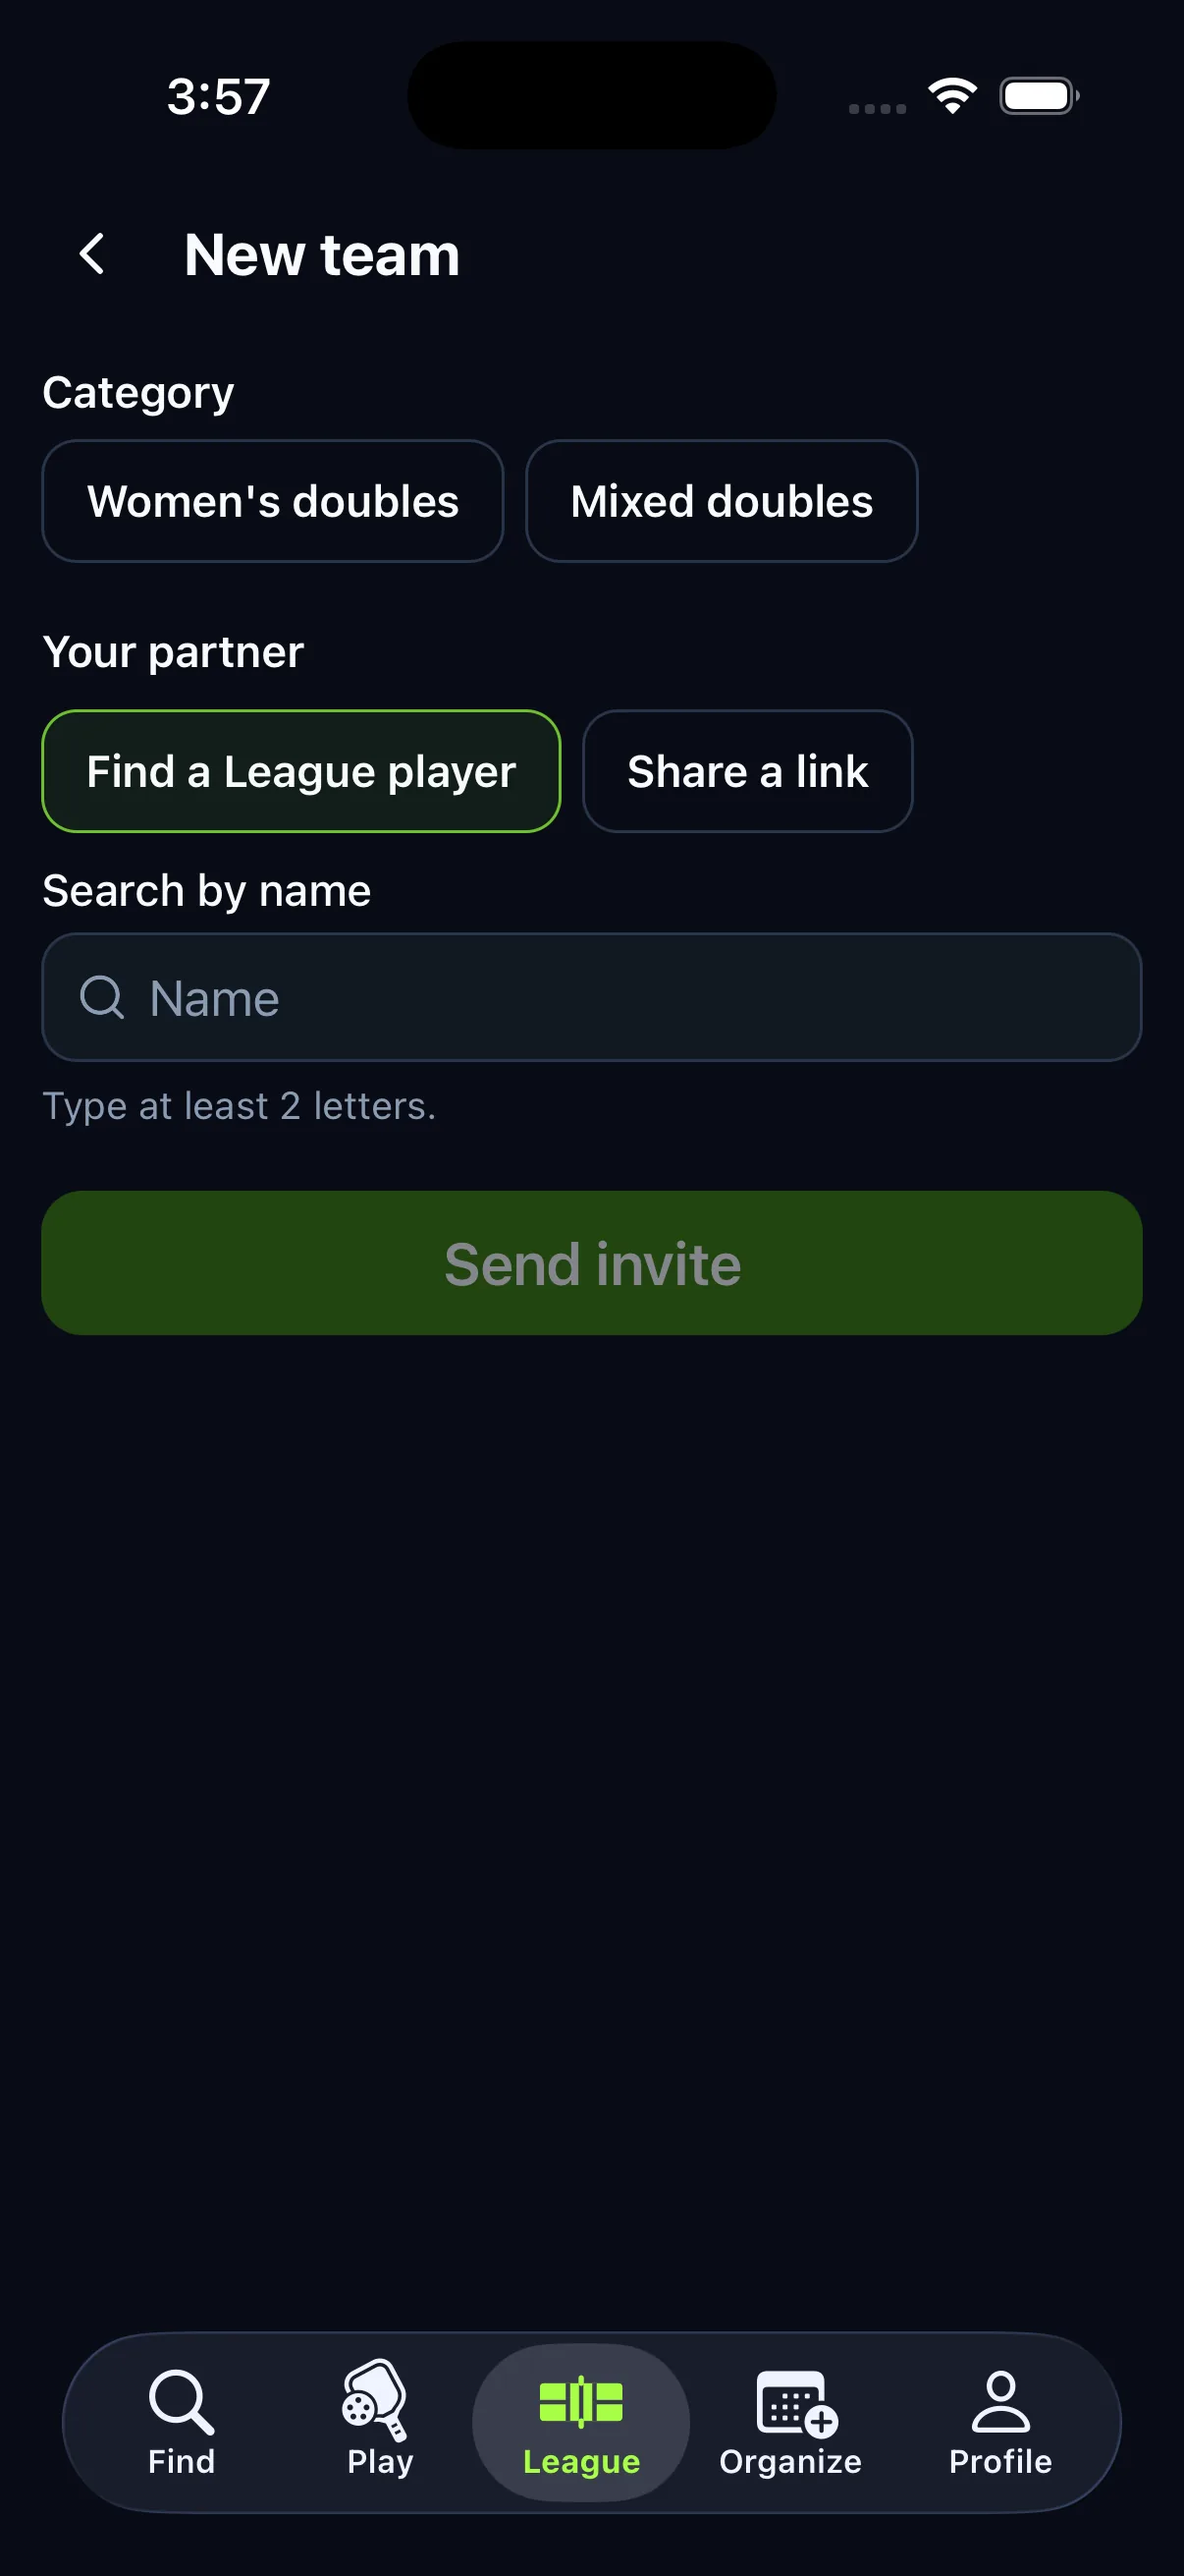
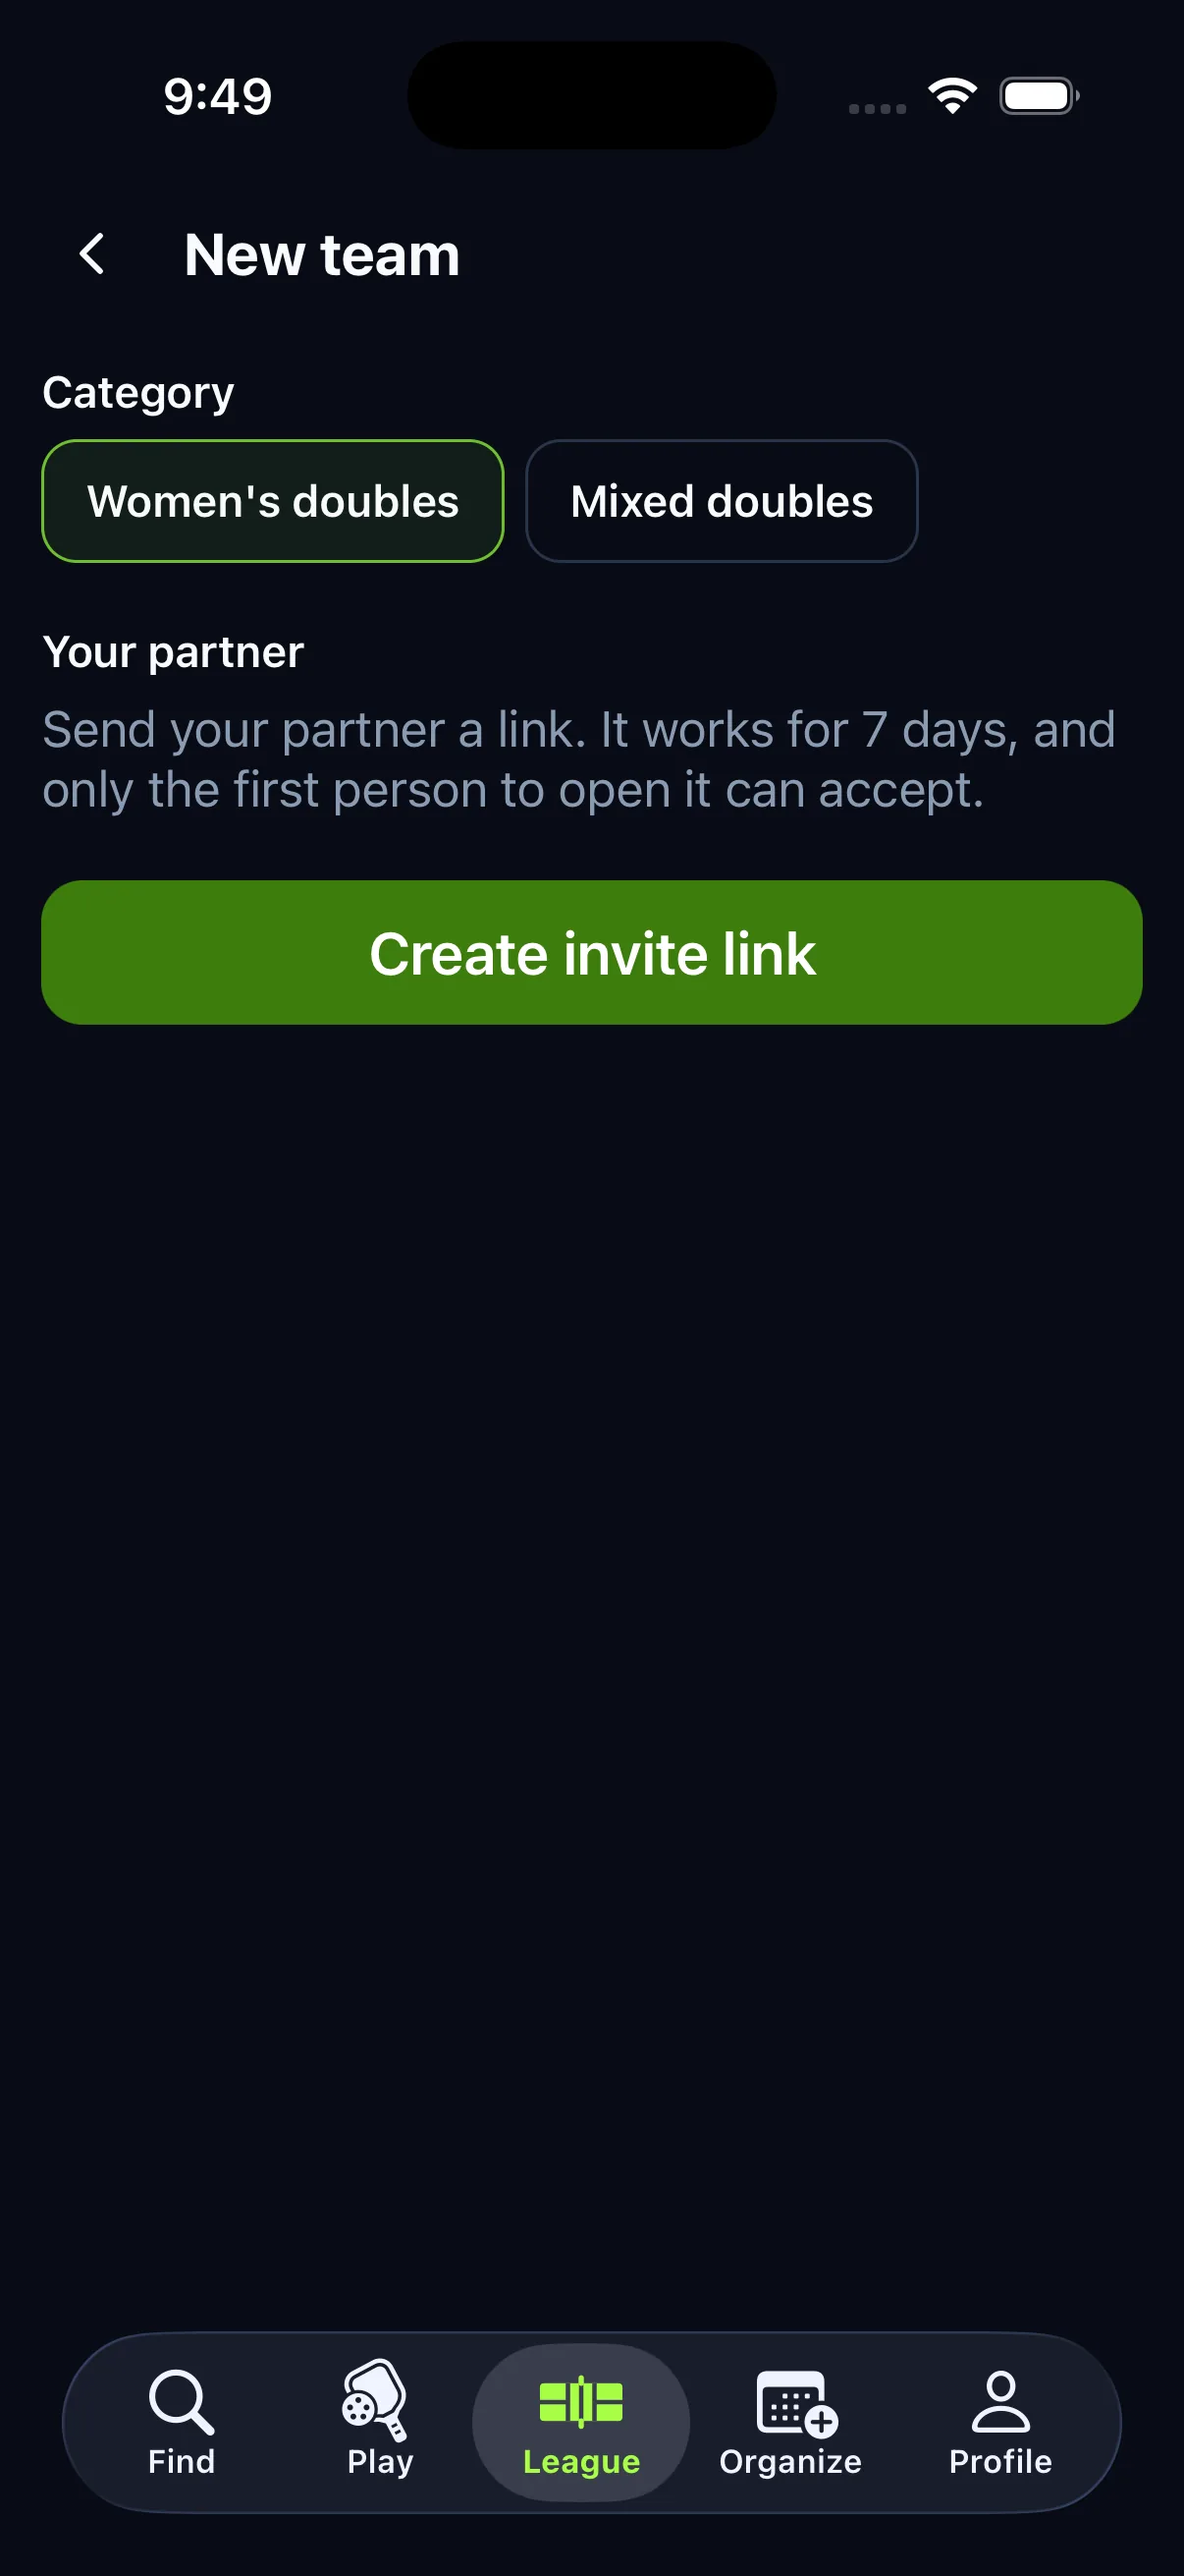
Recapture fixed-team screens for link-only partner invites
League partner invites are now link-only: there is no in-app player
search, because a fixed partner is someone a player already knows.
Screen 60 shows New team with only the category and Create invite
link. Screen 61 shows the share sheet that opens with the link, and
replaces the old partner search. Screen 62 shows the saved invite
under Matchmaking with Share link and Cancel invite, and replaces the
old selected-partner screen. Captions, the capture list, the
evidence page and the README were updated. App base is ee207be70 on
local main.

diff --git a/index.html b/index.html
@@ -233,9 +233,9 @@ const CHAPTERS = [
     ['40c-recap-summary-end', 'What next', 'View standings, or start matchmaking for the new week.'],
   ]},
   { id: 'teams', title: 'Fixed teams', who: 'Doubles with the same partner every game.', person: 'Casey', shots: [
-    ['41-add-team', 'New team', 'Choose Women’s or Mixed doubles, then find a League player or share an invite link.'],
-    ['41b-add-team-search', 'Find a partner', 'Search lists only players who fit the chosen category: “Ma” finds Maya for Women’s doubles, and Marcus only under Mixed.'],
-    ['41c-add-team-selected', 'Send the invite', 'Maya is selected. She accepts on her own phone.'],
+    ['41-add-team', 'New team', 'Choose Women’s or Mixed doubles, then Create invite link. There is no player search: a partner is someone Casey already knows.'],
+    ['41b-add-team-share', 'Send the link', 'The share sheet opens with the link, ready to text to a friend. It works for 7 days, and only the first person to open it can accept.'],
+    ['41c-add-team-link-saved', 'Link saved', 'The invite waits under Matchmaking, with Share link to send it again and Cancel invite. Maya opens it on her own phone and accepts.'],
     ['43-team-settings', 'Team page', 'Casey and Maya’s Women’s doubles team: times, match settings, Out for now, and End this team last.'],
   ]},
   { id: 'scan', title: 'Scan to play', who: 'Already at the courts with someone? Set up a League match on the spot.', person: 'Casey', shots: [

diff --git a/current-evidence.md b/current-evidence.md
@@ -38,7 +38,7 @@ A later pass, not yet committed to the app repository when these captures were t
 - League stats match history puts the result and opponent on the left and the score and PD on the right.
 - My QR is Circuit green and black, and still decodes with the iOS camera detector.
 - The hour grid no longer shows a check mark on selected hours.
-- Partner search lists only players who fit the chosen category, and the server refuses an invite that does not fit.
+- Partner search lists only players who fit the chosen category, and the server refuses an invite that does not fit. (Partner search was removed in the fifth pass below.)
 - The conduct notice on League home is a flat row instead of a large brown card.
 - Setup no longer repeats the category rule in a paragraph, but keeps the confirmation checkbox.
 - Match chat has hold-to-react with eight reactions, shown as two new screens after Mute or block.
@@ -64,6 +64,16 @@ App commits `c2f902156`, `17e272bc5`, `5aea79394` and `01e6c876f` on local main 
 - In the app, a time names its zone only when the phone's clock differs from the venue's, or in the repeated hour on the night daylight saving ends. The simulator is on Central time, so every retaken time reads without "Central (CT)" (screens 10, 21, 22, 24, 29, 35, 36, 40, 42, 43, 48 and 76 to 80). The inbox (screen 81) keeps its zone on purpose, because notifications are read outside the app.
 - Scan to play lists the nearest venues first, each with its distance, as flat rows (screen 64). Choosing one folds the list to it (screen 65, which replaces the old venue sheet).
 - The story state differs slightly from earlier passes. The score to review is from Elena, not Jade, and ends in a loss (screens 40 and 42). The challenge deadline is 8:26 PM (screen 77).
+
+## Fifth pass (2026-10-26, night)
+
+App commits `7d3a83d79` and `ee207be70` on local main (not pushed) made League partner invites link-only. The owner decided that a fixed partner is someone a player already knows, so there is no in-app player search. The world was rebuilt from an empty database, and three screens were taken again:
+
+- New team asks only for the category and offers Create invite link (screen 60).
+- Creating it opens the share sheet with the link (screen 61, which replaces the old partner search).
+- The invite then waits under Matchmaking, with Share link and Cancel invite, and reads "Expires in 7 days" (screen 62, which replaces the old selected-partner screen). Before `ee207be70`, a link made while the League tab was already open could briefly read "Expires in 8 days".
+
+The tour does not show the partner opening the link, because the fictional partner has no simulator account. That screen did not change in this pass.
 
 ## Page checks
 

diff --git a/README.md b/README.md
@@ -4,7 +4,7 @@
 
 One page follows two fictional players through Circuit League on iPhone. Blake joins: intro, the four setup stages, notifications and automatic check-in. Casey has played for seven weeks: offers, chat, score reporting and review, leaderboards, player records, the weekly recap, fixed teams, Scan to play, settings, safety and notifications.
 
-All 81 screens were captured on October 26, 2026 on an iPhone 17 Pro simulator (iOS 26.4) in Dark appearance at the Default app text size. Most come from one walkthrough of the app on local main, after commit `e4e2ed091` and the setup check-in step fix that followed it. Ten were recaptured that evening after the second polish pass and the new match chat reactions (local main `8babf9c93`). Seven more were captured or recaptured later that night after the reaction badge and standings info changes (local main `b9c600d12`). Eighteen were recaptured after that, once in-app times showed a zone only when the phone's clock differs and Scan to play listed the nearest venues first (local main `01e6c876f`). Tap any screen to step through the tour full size; arrow keys and swipes move between screens, and `#s12`-style links open a specific screen.
+All 81 screens were captured on October 26, 2026 on an iPhone 17 Pro simulator (iOS 26.4) in Dark appearance at the Default app text size. Most come from one walkthrough of the app on local main, after commit `e4e2ed091` and the setup check-in step fix that followed it. Ten were recaptured that evening after the second polish pass and the new match chat reactions (local main `8babf9c93`). Seven more were captured or recaptured later that night after the reaction badge and standings info changes (local main `b9c600d12`). Eighteen were recaptured after that, once in-app times showed a zone only when the phone's clock differs and Scan to play listed the nearest venues first (local main `01e6c876f`). Three team screens were recaptured last, once partner invites became link-only (local main `ee207be70`). Tap any screen to step through the tour full size; arrow keys and swipes move between screens, and `#s12`-style links open a specific screen.
 
 All people, matches, venues and safety records are fictional local test data. [Capture list](current-captures.json) names every screen and its source file. [Verification and known gaps](current-evidence.md) records what was checked and what the tour does not show.
 
